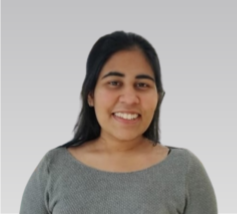
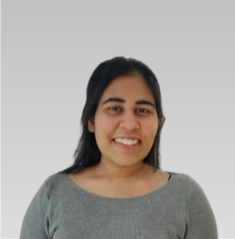
add_picture

diff --git a/_aiexpress/ai0.md b/_aiexpress/ai0.md
@@ -529,7 +529,7 @@ This page introduces you to the team, the basic instructions, the schedule and v
 
   <div class="img-border" style="grid-column: 5/6">
     <div class="circular--portrait">
-      <img src="/assets/images/people/AnshikaGupta.png" class="circular--portrait-img" align="left" style="margin-top:-15px;" data-toggle="modal" data-target="#AnshikaModal"/>
+      <img src="/assets/images/people/AnshikaGupta.png" class="circular--portrait-img" align="left" style="" data-toggle="modal" data-target="#AnshikaModal"/>
     </div>
   </div>
 
